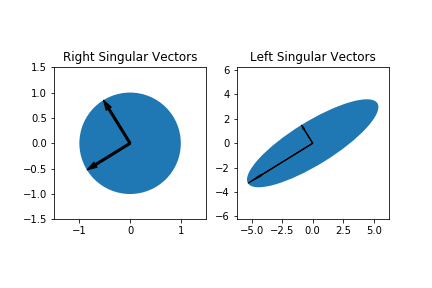
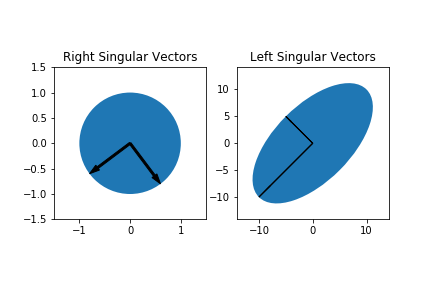
update through chap8

diff --git a/chap8/mgs.py b/chap8/mgs.py
@@ -1,0 +1,26 @@
+'''
+Implements Algorithm 8.1: Modified Gram-Schmidt
+Only works correctly for full rank matrices
+'''
+import numpy as np
+
+def mgs(A):
+    '''
+    A - numpy array with linearly independent columns
+    Q - orthogonal matrix whose columns span the range of mat
+    R - upper diagnonal matrix such that A = QR
+    '''
+    V = A.copy()
+    m,n = np.shape(V)
+    Q = np.zeros((m,n))
+    R = np.zeros((n,n))
+    for i in range(n):
+        R[i,i] = np.linalg.norm(V[:,i])
+        Q[:,i] = V[:,i]/R[i,i]
+        for j in range(i+1,n):
+            R[i,j] = np.dot(Q[:,i],V[:,j])
+            V[:,j] = V[:,j] - Q[:,i]*R[i,j]
+    return Q, R
+
+# A = np.array([[1,2],[3,4],[5,9]])
+# Q,R = mgs(A)

diff --git a/chap4/ex3.py b/chap4/ex3.py
@@ -5,8 +5,8 @@ import matplotlib.pyplot as plt
 
 
 # define 2x2 matrix
-X = np.array([[5,2],
-              [2,3]])
+X = np.array([[-2,11],
+              [-10,5]])
 
 U,S,V = np.linalg.svd(X)
 

diff --git a/README.md b/README.md
@@ -1,7 +1,3 @@
-# What?
+# README
 
-My solution scripts for various exercises in Trefethen &amp; Bau's 'Numerical Linear Algebra'. 
-
-# Why?
-
-Although the book is written for use with MATLAB, I wanted to do the solutions using Python libraries. This is just an excuse to keep my linear algebra skills fresh and practice using python libraries.
+This repository contains my solution scripts for the various programmming exercises in Trefethen &amp; Bau's 'Numerical Linear Algebra'. The book is written for use with MATLAB, but I wanted to do use Python libraries.
